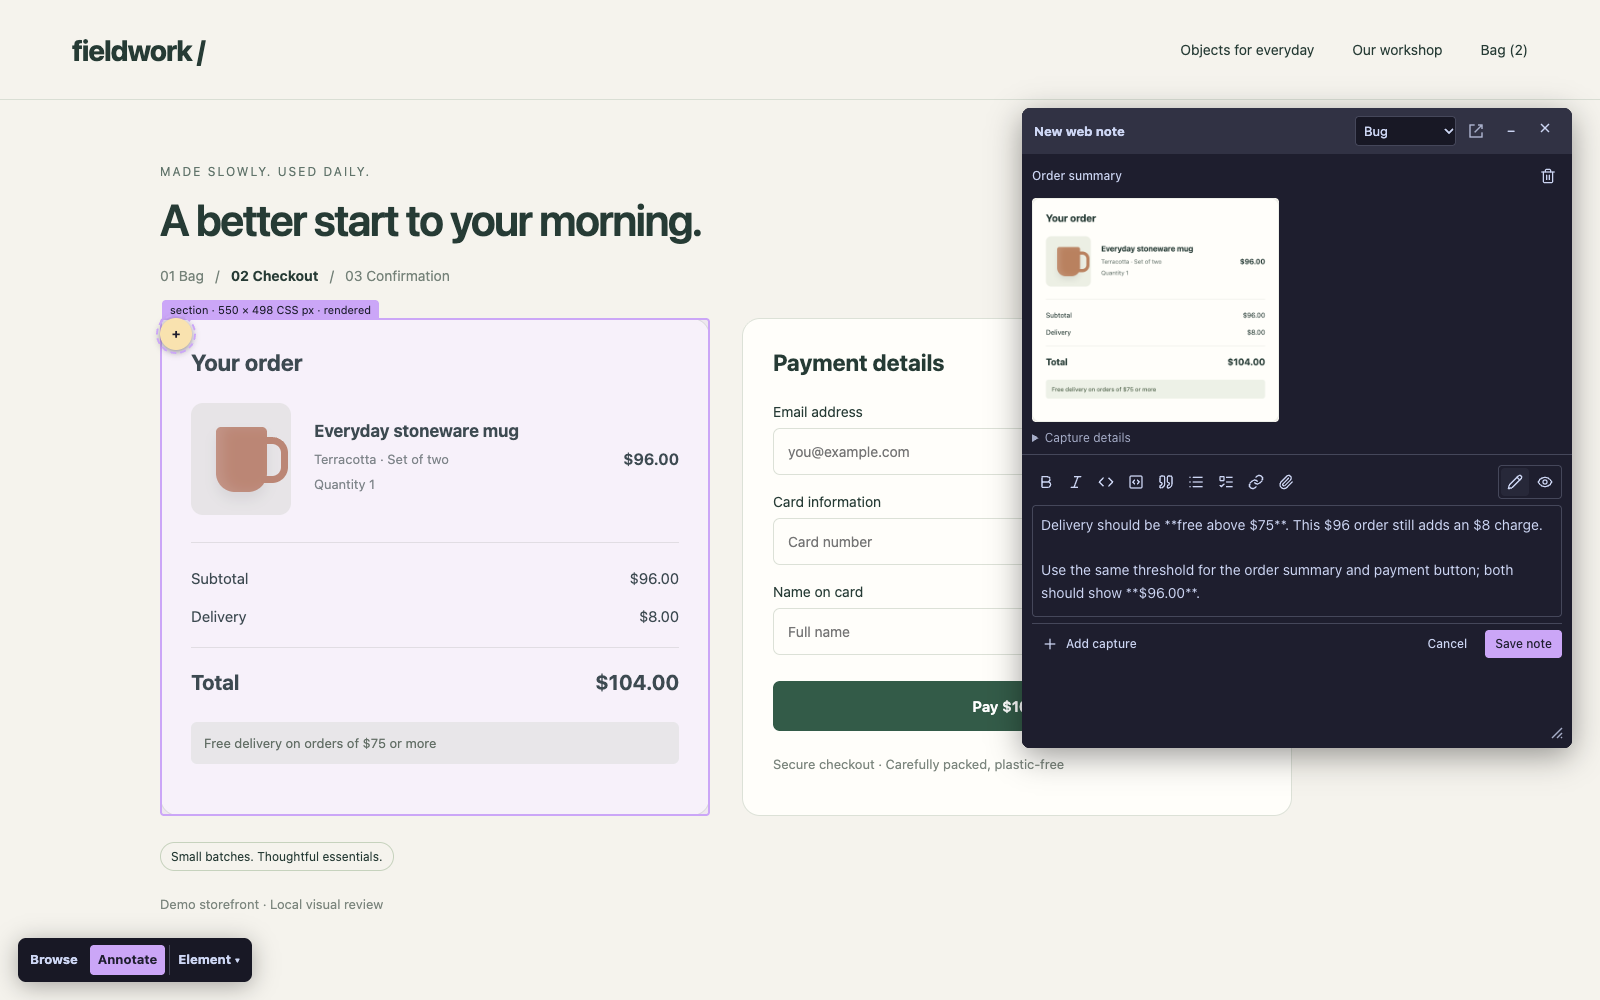
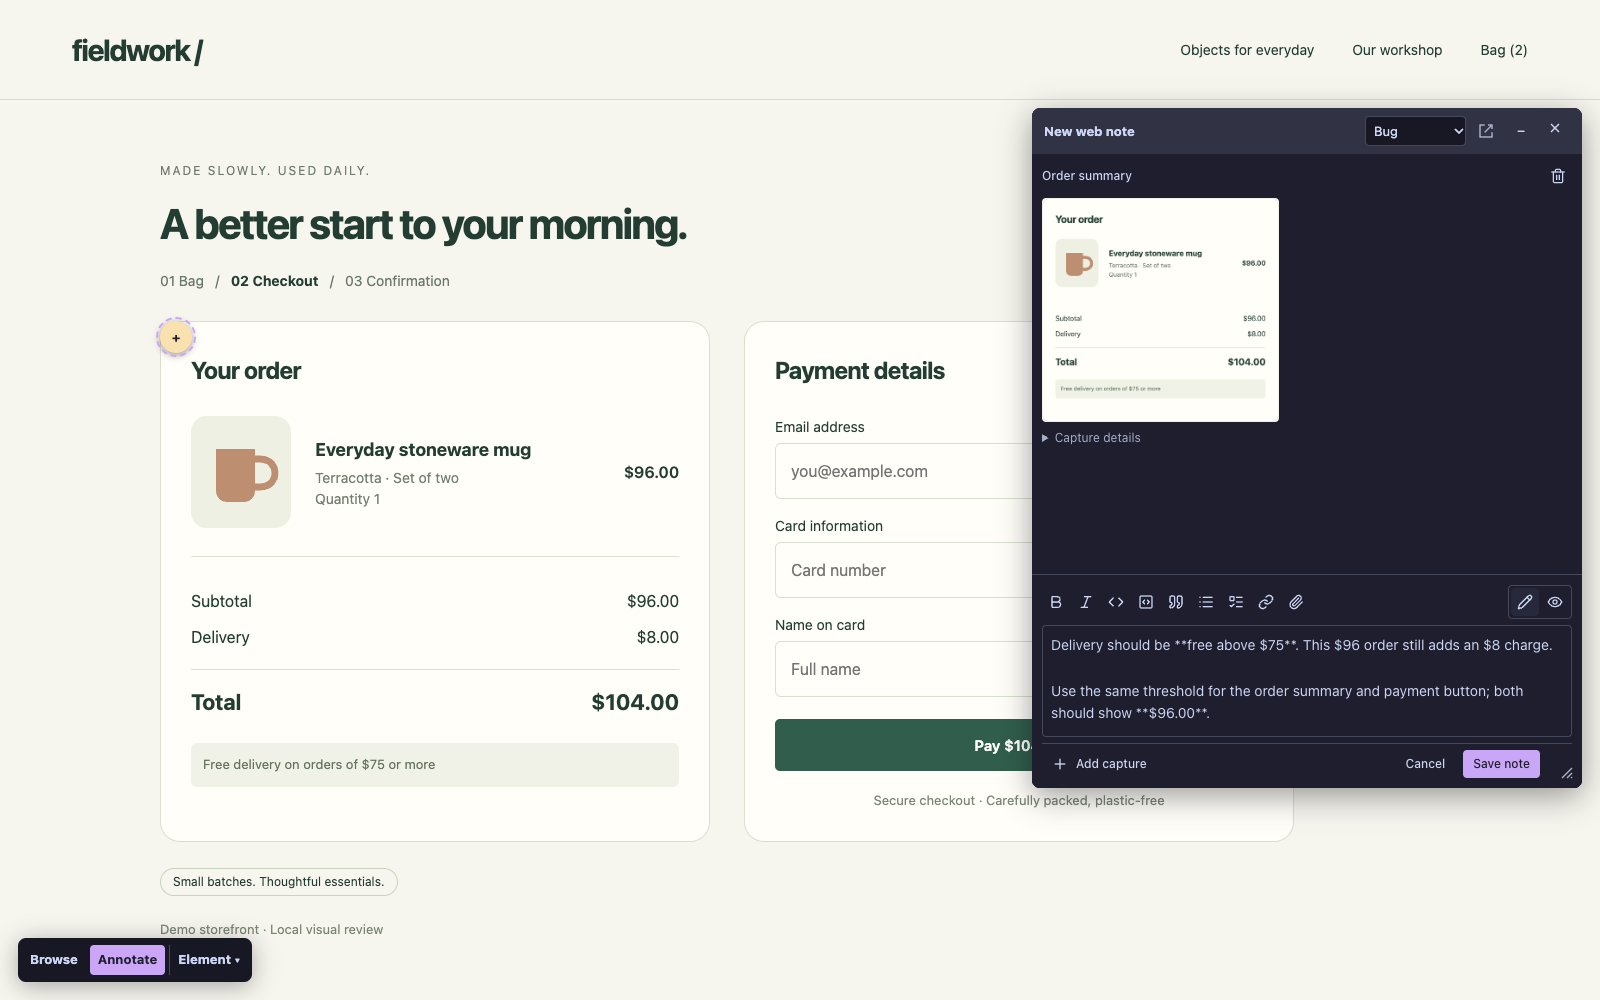
Release v2.0.1
- Refresh the web-mode screenshot with the bottom-aligned composer and fixed resize grip.
- Update the package version and mise installation example for the patch release.

diff --git a/README.md b/README.md
@@ -10,7 +10,7 @@ Review local Git changes and annotate a running web app. Feedback stays in Markd
 - Choose Light, Dark, Catppuccin Latte, or Catppuccin Mocha—or create your own palette.
 - Continue with any coding agent through review files, or connect one through ACP.
 
-The screenshots show the React UI included in **v2.0.0**.
+The screenshots show the React UI included in **v2.0.1**.
 See [development](docs/development.md) for the library stack and architecture.
 
 ## Install
@@ -39,14 +39,14 @@ mise upgrade github:cjvnjde/local-code-review
 To pin a release for a project, run this in that project's directory:
 
 ```sh
-mise use github:cjvnjde/local-code-review@2.0.0
+mise use github:cjvnjde/local-code-review@2.0.1
 ```
 
 This writes the version to `mise.toml`; others can run `mise install` to install it. The version is the release tag without its leading `v`. `lcr --version` prints the executable's source build stamp, which is separate from the release version.
 
 Mise's [minimum-release-age policy](https://mise.jdx.dev/configuration/settings.html#minimum_release_age)
 can keep `@latest` and upgrades on an older release immediately after publication.
-Use an explicit version such as `@2.0.0` to install a just-published release without
+Use an explicit version such as `@2.0.1` to install a just-published release without
 changing your global safety settings.
 
 If you previously installed `lcr` in `~/.local/bin`, check `which lcr` (or `where.exe lcr` on Windows) after switching. An older executable earlier on `PATH` can still take precedence. `mise exec github:cjvnjde/local-code-review@latest -- lcr --version` explicitly runs the mise-managed version. Restart running lcr instances after updating.
